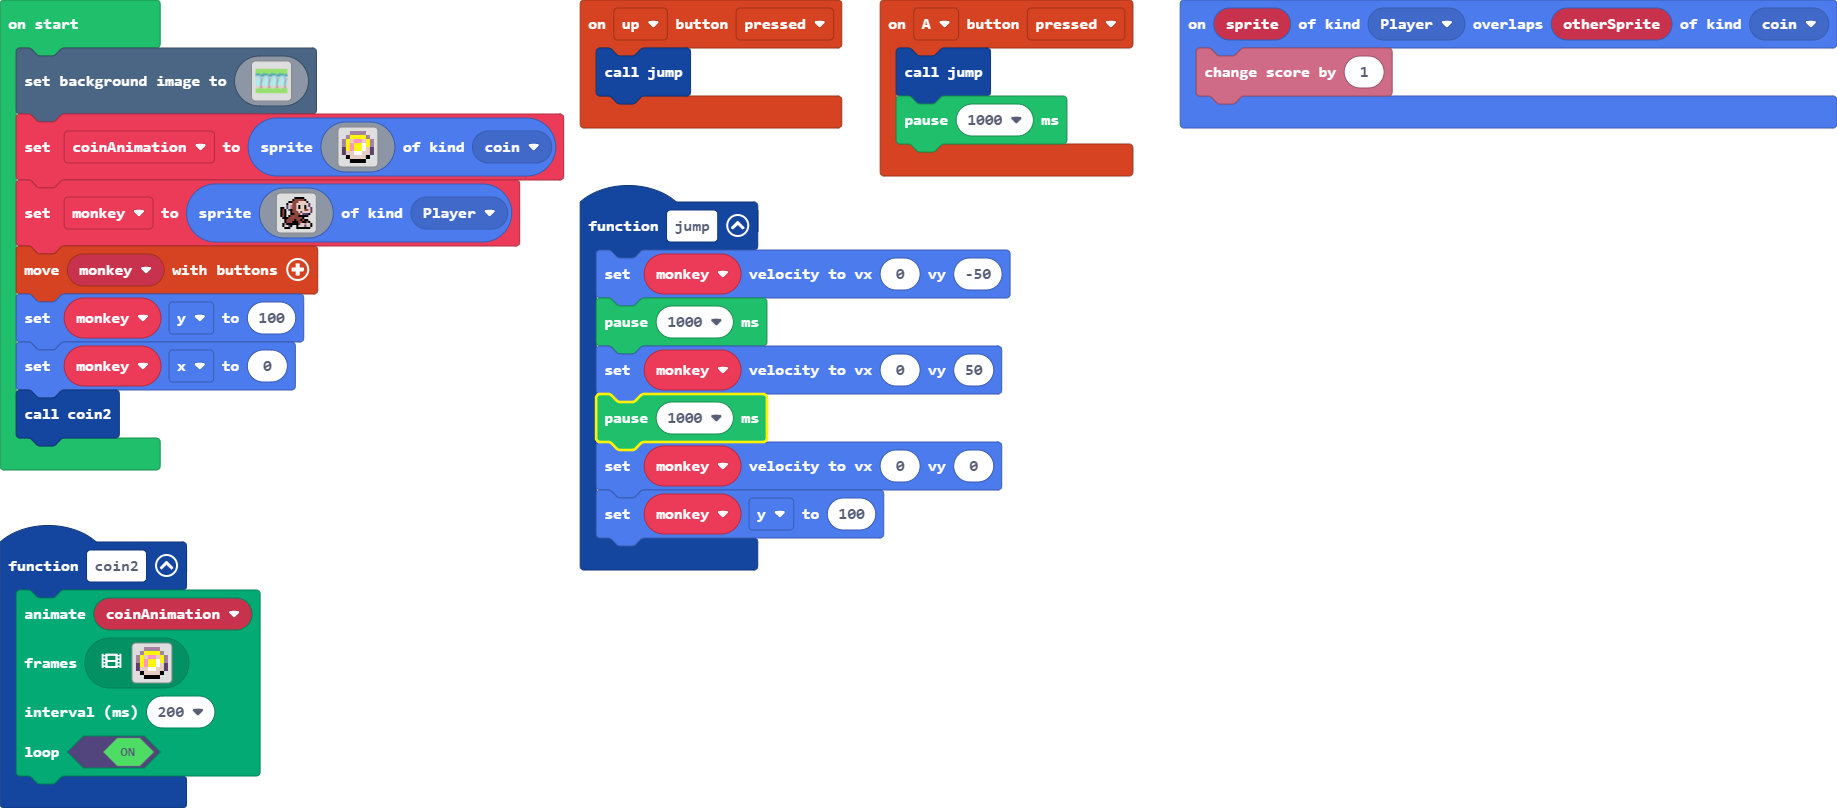
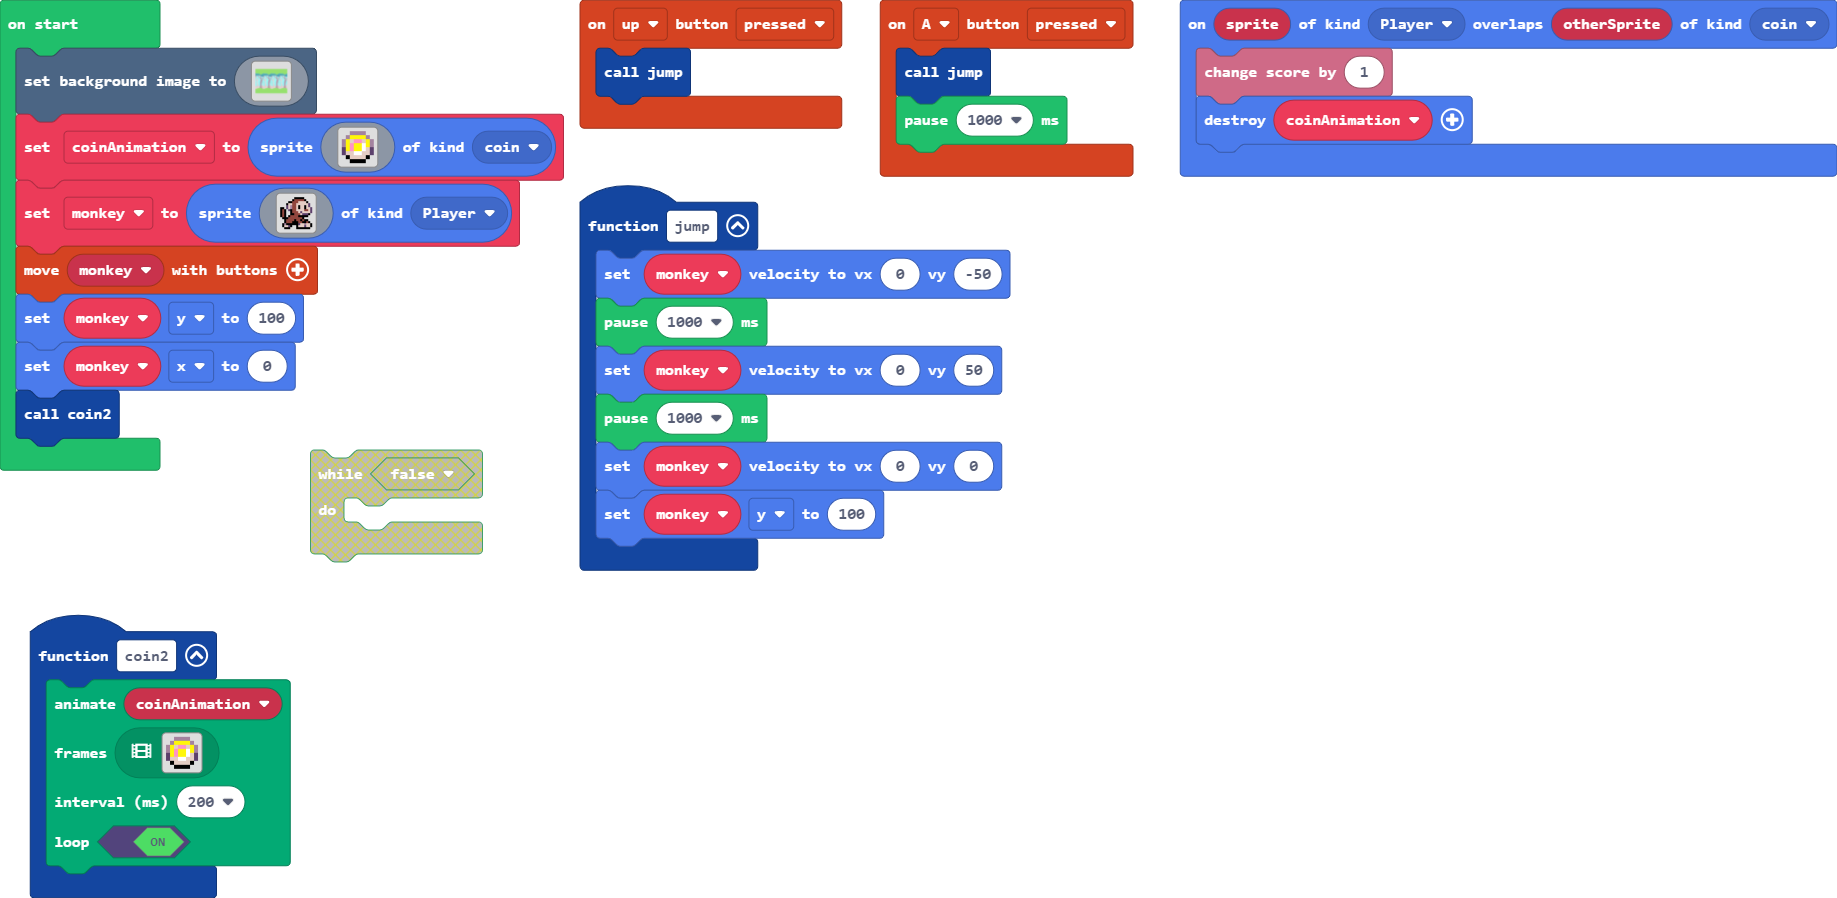
Update main.blocks, main.ts

Changed region(s): [[0.0, 0.0, 1.0, 0.7116], [0.0, 0.6498, 0.1862, 1.0]]

diff --git a/main.ts b/main.ts
@@ -72,6 +72,7 @@ function coin2 () {
 }
 sprites.onOverlap(SpriteKind.Player, SpriteKind.coin, function (sprite, otherSprite) {
     info.changeScoreBy(1)
+    coinAnimation.destroy()
 })
 function jump () {
     monkey.setVelocity(0, -50)
